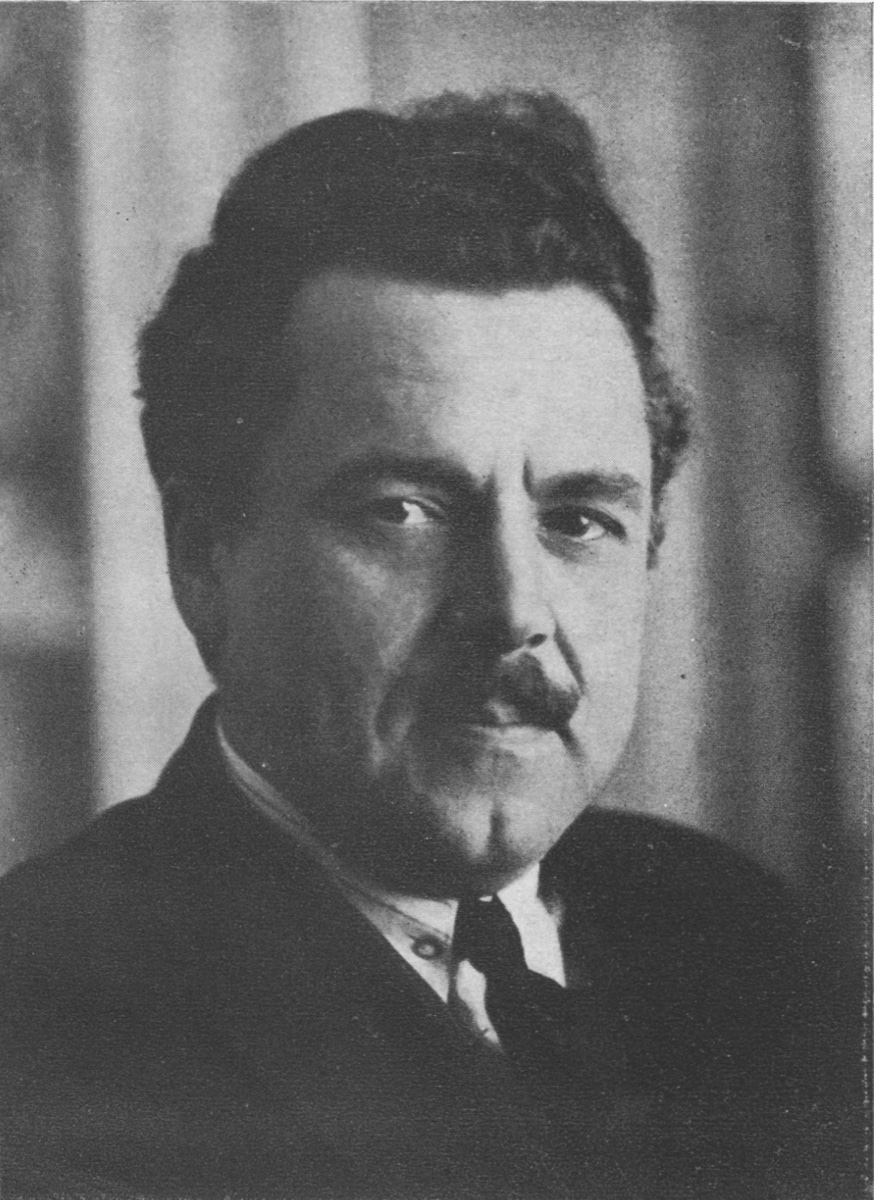
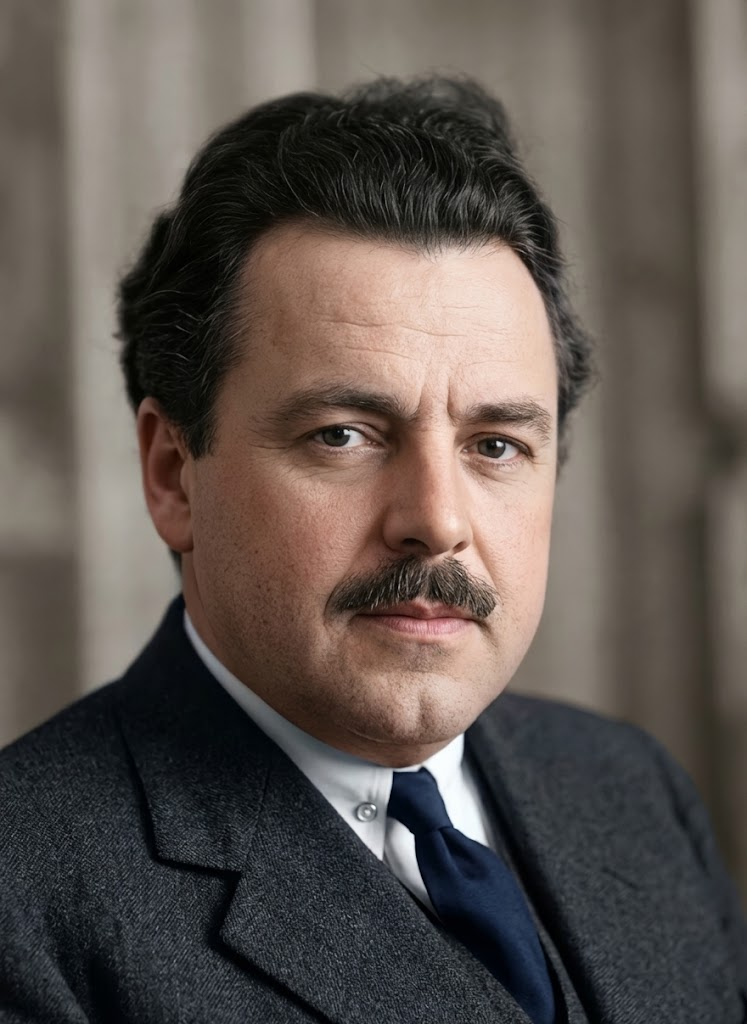
Approve Bohomolets, Slisarenko and Polishchuk with AI-colorized portraits (Bohomolets: fair use, from uain.press)

diff --git a/src/content/people/uk/oleksandr-bohomolets.md b/src/content/people/uk/oleksandr-bohomolets.md
@@ -17,10 +17,13 @@ places:
   - { name: "Москва", lat: 55.756, lon: 37.617, note: "професор університету й директор інституту гематології, 1925–1931" }
 image:
   src: ./images/oleksandr-bohomolets.jpg
-  alt: "Фотопортрет Олександра Богомольця"
+  alt: "Олександр Богомолець, сивий чоловік у темному костюмі, сидить у плетеному кріслі"
+  position: "45% 20%"
   author: "Невідомий автор"
-  license: "Public domain"
-  source_url: "https://commons.wikimedia.org/wiki/File:Oleksander_Bohomolets.jpg"
+  license: "Fair use"
+  source_url: "https://uain.press/blogs/oleksandr-bogomolets-zhyty-do-150-rokiv-1245498"
+  ai_edit: colorized
+  fair_use: true
 key_accomplishments:
   - "Президент Академії наук УРСР (1930–1946)"
   - "Засновник великої школи патофізіологів"
@@ -37,7 +40,8 @@ sources:
   - title: "Радіо Свобода - «Розмова на часі»: Ольга Богомолець (2003)"
     url: "https://www.radiosvoboda.org/a/905265.html"
 related: [illia-mechnykov, volodymyr-vernadskyi]
-status: draft
+status: approved
+published: 2026-10-18T02:17:22Z
 ---
 
 ## Народжений за ґратами

diff --git a/src/content/people/uk/valerian-polishchuk.md b/src/content/people/uk/valerian-polishchuk.md
@@ -19,10 +19,11 @@ places:
   - { name: "Сандармох", lat: 62.861, lon: 34.728, note: "місце розстрілу, 1937" }
 image:
   src: ./images/valerian-polishchuk.jpg
-  alt: "Валер'ян Поліщук, 1928 рік"
+  alt: "Валер'ян Поліщук у темному костюмі й краватці-метелику"
   author: "Невідомий автор"
   license: "Public domain"
-  source_url: "https://commons.wikimedia.org/wiki/File:Valerian_Polishyk.png"
+  source_url: "https://commons.wikimedia.org/wiki/File:Polishchuk-valerian.jpg"
+  ai_edit: colorized
 key_accomplishments:
   - "Заснував мистецьке об'єднання «Гроно» в Києві (1920) і літературну групу «Авангард» у Харкові (1925)"
   - "Теоретичні праці «Літературний авангард» (1926) і «Пульс эпохи» (1927) - програма «конструктивного динамізму»"
@@ -40,7 +41,8 @@ sources:
     url: "https://ror.gov.ua/vidatni-diyachi/pismenniki"
 related: [valerian-pidmohylnyi, hryhorii-skovoroda, mykola-khvylovyi, mykola-zerov, mykola-kulish, oleksa-slisarenko]
 collections: [executed-renaissance]
-status: draft
+status: approved
+published: 2026-10-18T02:24:24Z
 ---
 
 ## Хлопець із Волині

diff --git a/src/content/people/uk/oleksa-slisarenko.md b/src/content/people/uk/oleksa-slisarenko.md
@@ -21,6 +21,7 @@ image:
   author: "О. Кореневич"
   license: "Public domain"
   source_url: "https://commons.wikimedia.org/wiki/File:Oleksa_Slisarenko_(1928).jpg"
+  ai_edit: colorized
 key_accomplishments:
   - "Поетичні збірки «На березі Кастальському» (1919), «Поеми» (1923), «Байда» (1928)"
   - "Понад 20 гостросюжетних оповідань і романів, серед них «Чорний ангел» (1929), «Хлібна ріка» і «Страйк» (1932)"
@@ -38,7 +39,8 @@ sources:
     url: https://uk.wikipedia.org/wiki/Олекса_Слісаренко
 related: [mykola-khvylovyi, mykola-kulish, valerian-pidmohylnyi, valerian-polishchuk]
 collections: [executed-renaissance]
-status: draft
+status: approved
+published: 2026-10-18T02:23:06Z
 ---
 
 ## Агроном зі Слобожанщини

diff --git a/src/content/people/en/oleksandr-bohomolets.md b/src/content/people/en/oleksandr-bohomolets.md
@@ -11,7 +11,7 @@ key_accomplishments:
   - "An antireticular cytotoxic serum that brought him international recognition"
   - "Founded institutes in Kyiv that became the Institute of Physiology named after him in 1953"
 birthplace_name: "Kyiv"
-image_alt: "Photographic portrait of Oleksandr Bohomolets"
+image_alt: "Oleksandr Bohomolets, a grey-haired man in a dark suit, sitting in a wicker chair"
 ---
 
 ## Born behind bars

diff --git a/src/content/people/en/valerian-polishchuk.md b/src/content/people/en/valerian-polishchuk.md
@@ -11,7 +11,7 @@ key_accomplishments:
   - "The short novels Hryhorii Skovoroda (1929) and A Tale of Metal and Coal (1931), about the Donbas"
   - "Translations of Arthur Rimbaud, John Reed and Alexander Blok"
 birthplace_name: "Bilche"
-image_alt: "Valerian Polishchuk, 1928"
+image_alt: "Valerian Polishchuk in a dark suit and bow tie"
 ---
 
 ## The boy from Volhynia
